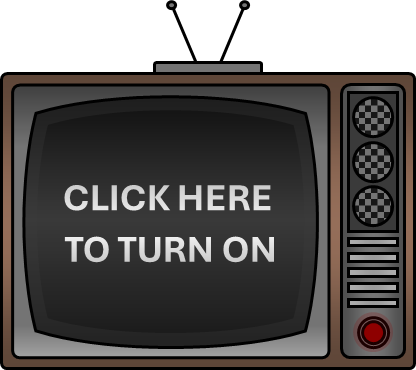
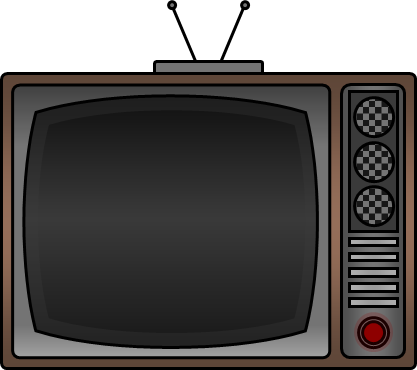
Altered television

diff --git a/src/components/stuff/TelevisionObject.jsx b/src/components/stuff/TelevisionObject.jsx
@@ -12,24 +12,27 @@ import ch7 from "../../assets/stuff/tv/surfer.mp4";
 import ch8 from "../../assets/stuff/tv/jerry.mp4";
 import ch9 from "../../assets/stuff/tv/bean.mp4";
 
-const getRandomIndex = (len, exclude) => {
-  if (len <= 1) return 0;
+const shuffle = (arr) => {
+  const next = [...arr];
 
-  let idx = Math.floor(Math.random() * len);
-  while (idx === exclude) idx = Math.floor(Math.random() * len);
-  return idx;
+  for (let i = next.length - 1; i > 0; i--) {
+    const j = Math.floor(Math.random() * (i + 1));
+    [next[i], next[j]] = [next[j], next[i]];
+  }
+
+  return next;
 };
 
 const CHANNELS = [
-  {src: ch1, frame: { x: -20, y: 0, w: 120, h: 100 }, crop: { x: 0, y: 0, scale: 0.8 }},
-  {src: ch2, frame: { x: 0, y: 5, w: 110, h: 100 }, crop: { x: 0, y: 0, scale: 0.7 }},
-  {src: ch3, frame: { x: -10, y: 7, w: 150, h: 105 }, crop: { x: 0, y: 0, scale: 0.64 }},
-  {src: ch4, frame: { x: 0, y: 6, w: 140, h: 110 }, crop: { x: 0, y: 0, scale: 0.61 }},
-  {src: ch5, frame: { x: -5, y: 0, w: 115, h: 105 }, crop: { x: 0, y: 0, scale: 0.7 }},
-  {src: ch6, frame: { x: -12, y: 5, w: 145, h: 110 }, crop: { x: 0, y: 0, scale: 0.6 }},
-  {src: ch7, frame: { x: -20, y: 0, w: 180, h: 130 }, crop: { x: 0, y: 0, scale: 0.6 }},
-  {src: ch8, frame: { x: -10, y: 0, w: 145, h: 124 }, crop: { x: 0, y: 0, scale: 0.6 }},
-  {src: ch9, frame: { x: -20, y: 5, w: 180, h: 120 }, crop: { x: 0, y: 0, scale: 0.6 }},
+  { src: ch1, frame: { x: -20, y: 0, w: 120, h: 100 }, crop: { x: 0, y: 0, scale: 0.8 } },
+  { src: ch2, frame: { x: 0, y: 5, w: 110, h: 100 }, crop: { x: 0, y: 0, scale: 0.7 } },
+  { src: ch3, frame: { x: -10, y: 7, w: 150, h: 105 }, crop: { x: 0, y: 0, scale: 0.64 } },
+  { src: ch4, frame: { x: 0, y: 6, w: 140, h: 110 }, crop: { x: 0, y: 0, scale: 0.61 } },
+  { src: ch5, frame: { x: -5, y: 0, w: 115, h: 105 }, crop: { x: 0, y: 0, scale: 0.7 } },
+  { src: ch6, frame: { x: -12, y: 5, w: 145, h: 110 }, crop: { x: 0, y: 0, scale: 0.6 } },
+  { src: ch7, frame: { x: -20, y: 0, w: 180, h: 130 }, crop: { x: 0, y: 0, scale: 0.6 } },
+  { src: ch8, frame: { x: -10, y: 0, w: 145, h: 124 }, crop: { x: 0, y: 0, scale: 0.6 } },
+  { src: ch9, frame: { x: -20, y: 5, w: 180, h: 120 }, crop: { x: 0, y: 0, scale: 0.6 } }
 ];
 
 export const TelevisionObject = ({ mobileMode, onInteract }) => {
@@ -41,6 +44,8 @@ export const TelevisionObject = ({ mobileMode, onInteract }) => {
 
   const containerRef = useRef(null);
   const offset = useRef({ x: 0, y: 0 });
+  const queueRef = useRef([]);
+  const queueIndexRef = useRef(0);
 
   const current = CHANNELS[channel];
   const tvWidth = mobileMode ? "50vw" : "20vw";
@@ -66,6 +71,28 @@ export const TelevisionObject = ({ mobileMode, onInteract }) => {
     setHoverDragZone(getRelativeX(e) >= rect.width * 0.8);
   };
 
+  const startNewCycle = () => {
+    const nextQueue = shuffle([...Array(CHANNELS.length).keys()]);
+    queueRef.current = nextQueue;
+    queueIndexRef.current = 0;
+    setChannel(nextQueue[0]);
+    setTvState("on");
+  };
+
+  const advanceChannel = () => {
+    const nextIndex = queueIndexRef.current + 1;
+
+    if (nextIndex < queueRef.current.length) {
+      queueIndexRef.current = nextIndex;
+      setChannel(queueRef.current[nextIndex]);
+      return;
+    }
+
+    queueRef.current = [];
+    queueIndexRef.current = 0;
+    setTvState("off");
+  };
+
   const handleDown = (e) => {
     const rect = containerRef.current?.getBoundingClientRect();
     if (!rect) return;
@@ -75,8 +102,12 @@ export const TelevisionObject = ({ mobileMode, onInteract }) => {
     const isDragZone = relativeX >= rect.width * 0.8;
 
     if (!isDragZone) {
-      setTvState("on");
-      setChannel((c) => getRandomIndex(CHANNELS.length, c));
+      if (tvState === "off" || queueRef.current.length === 0) {
+        startNewCycle();
+      } else {
+        advanceChannel();
+      }
+
       onInteract?.();
       return;
     }
